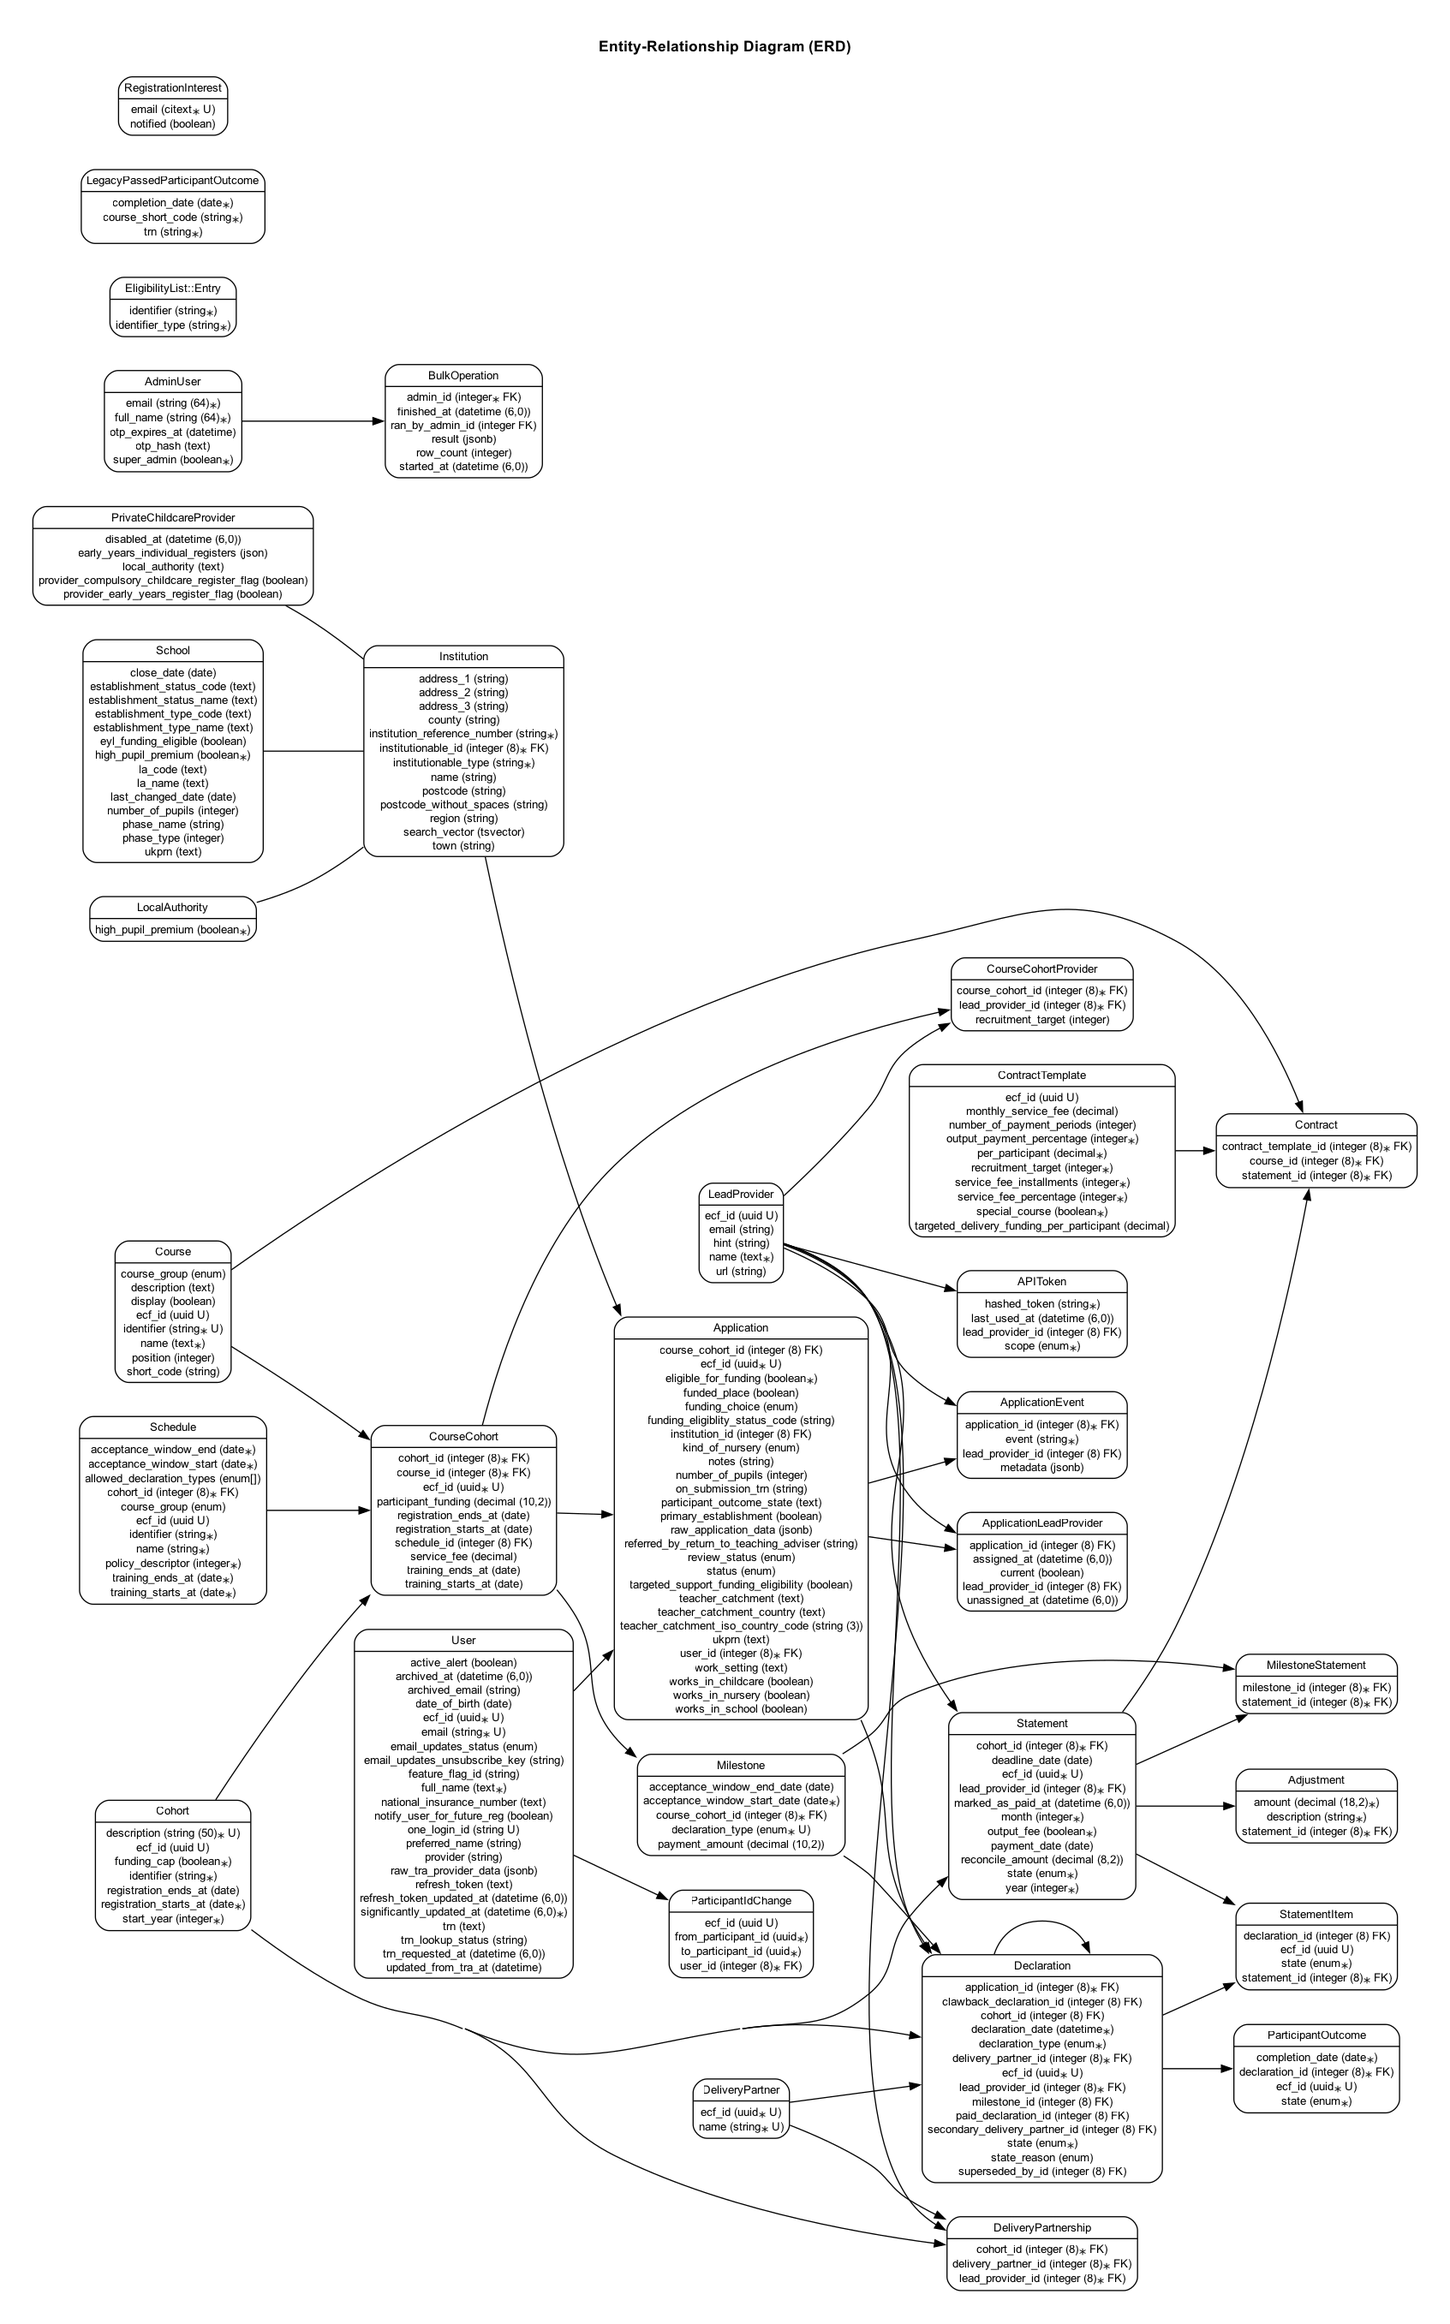
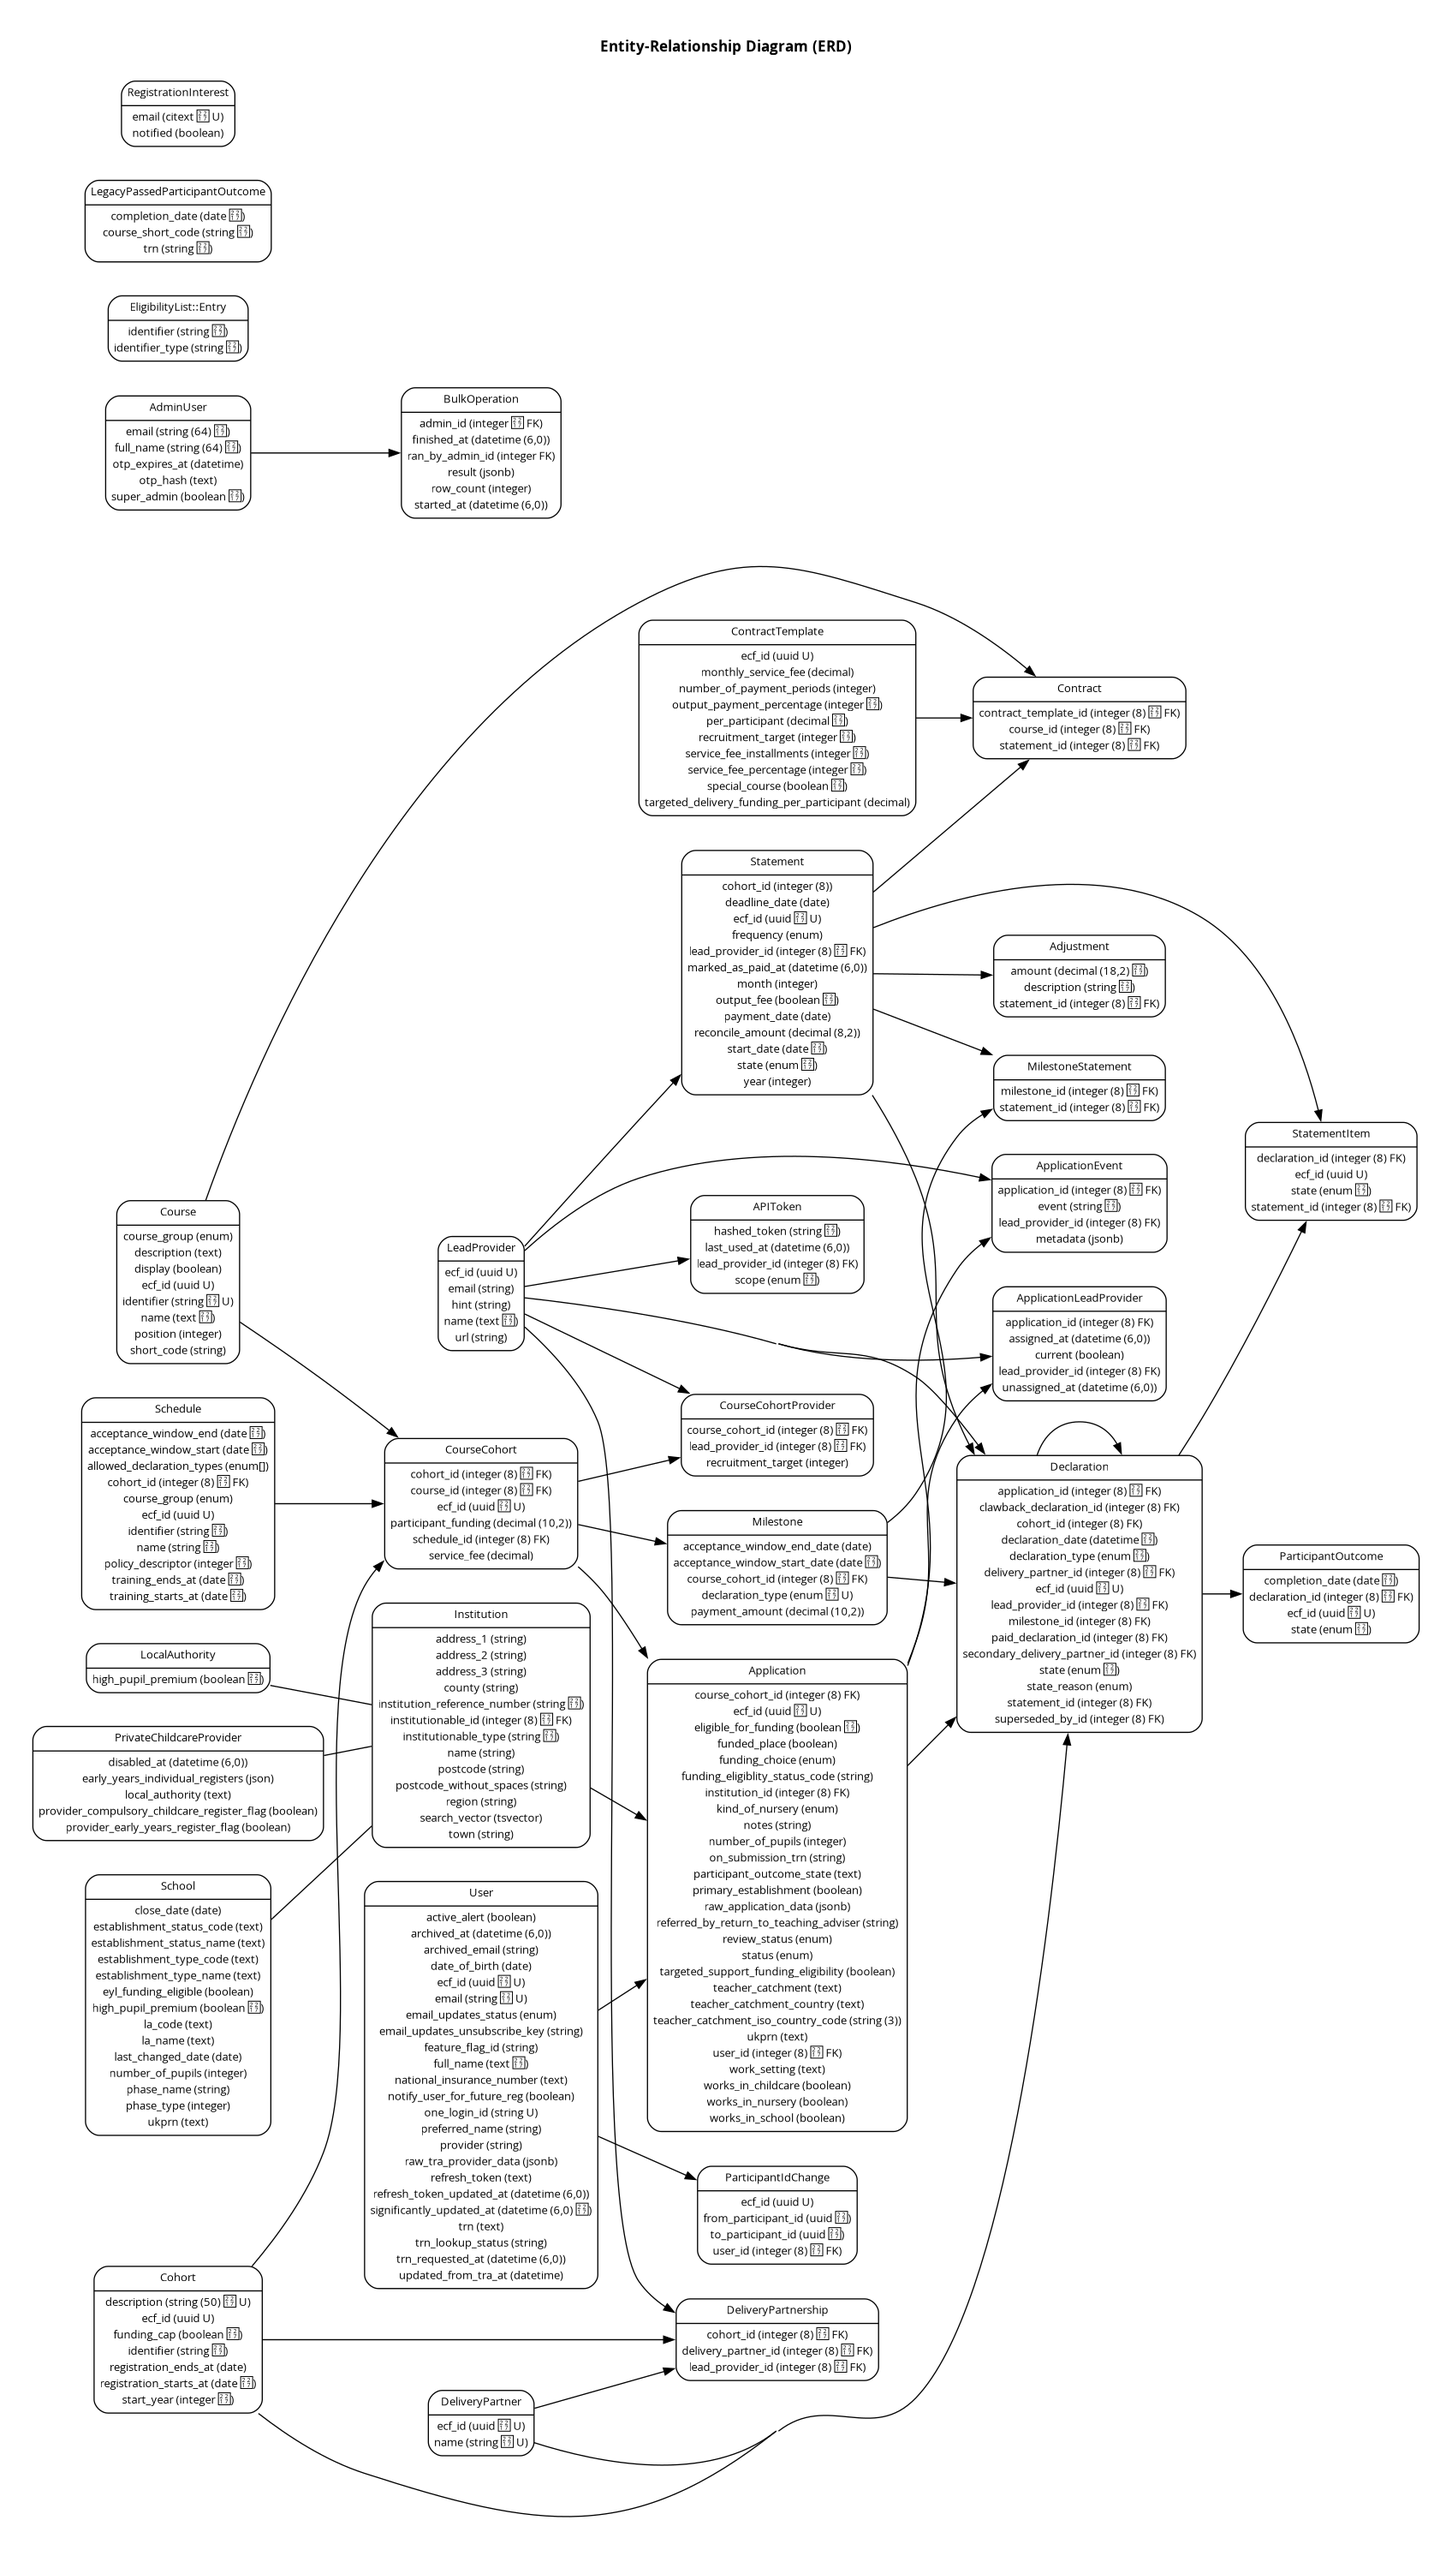
Split migration so we don't remove columns before backfilling data

diff --git a/db/schema.rb b/db/schema.rb
@@ -582,20 +582,24 @@ ActiveRecord::Schema[8.1].define(version: 2026_07_31_093900) do
   end
 
   create_table "statements", force: :cascade do |t|
+    t.bigint "cohort_id"
     t.datetime "created_at", null: false
     t.date "deadline_date"
     t.uuid "ecf_id", default: -> { "gen_random_uuid()" }, null: false
     t.enum "frequency", enum_type: "statements_frequency_types"
     t.bigint "lead_provider_id", null: false
     t.datetime "marked_as_paid_at"
+    t.integer "month"
     t.boolean "output_fee", default: true, null: false
     t.date "payment_date"
     t.decimal "reconcile_amount", precision: 8, scale: 2
     t.date "start_date"
     t.enum "state", default: "open", null: false, enum_type: "statement_states"
     t.datetime "updated_at", null: false
+    t.integer "year"
+    t.index ["cohort_id"], name: "index_statements_on_cohort_id"
     t.index ["ecf_id"], name: "index_statements_on_ecf_id", unique: true
-    t.index ["lead_provider_id", "start_date", "frequency"], name: "index_statements_on_lead_provider_id_start_date_frequency", unique: true
+    t.index ["lead_provider_id", "cohort_id", "year", "month"], name: "idx_on_lead_provider_id_cohort_id_year_month_2dece26c47", unique: true
     t.index ["lead_provider_id"], name: "index_statements_on_lead_provider_id"
   end
 
@@ -683,5 +687,6 @@ ActiveRecord::Schema[8.1].define(version: 2026_07_31_093900) do
   add_foreign_key "schedules", "cohorts"
   add_foreign_key "statement_items", "declarations"
   add_foreign_key "statement_items", "statements"
+  add_foreign_key "statements", "cohorts"
   add_foreign_key "statements", "lead_providers"
 end

diff --git a/db/migrate/20260723133441_update_statement.rb b/db/migrate/20260723133441_update_statement.rb
@@ -1,25 +1,12 @@
 class UpdateStatement < ActiveRecord::Migration[8.1]
-  disable_ddl_transaction!
-
   def change
-    safety_assured do
-      remove_index :statements, :cohort_id if index_exists?(:statements, :cohort_id)
-
-      remove_column :statements, :cohort_id, :bigint if column_exists?(:statements, :cohort_id)
-      remove_column :statements, :month, :integer if column_exists?(:statements, :month)
-      remove_column :statements, :year, :integer if column_exists?(:statements, :year)
-    end
-
     create_enum :statements_frequency_types, %w[monthly]
 
     add_column :statements, :start_date, :date unless column_exists?(:statements, :start_date)
     add_column :statements, :frequency, :enum, enum_type: :statements_frequency_types unless column_exists?(:statements, :frequency)
 
-    unless index_exists?(:statements, %i[lead_provider_id start_date frequency])
-      add_index :statements, %i[lead_provider_id start_date frequency],
-                UNIQUE: true,
-                name: "index_statements_on_lead_provider_id_start_date_frequency",
-                algorithm: :concurrently
-    end
+    change_column_null :statements, :cohort_id, true
+    change_column_null :statements, :month, true
+    change_column_null :statements, :year, true
   end
 end

diff --git a/app/models/statement.rb b/app/models/statement.rb
@@ -15,7 +15,9 @@ class Statement < ApplicationRecord
   has_many :adjustments
 
   validates :start_date, presence: true
+  # rubocop:disable Rails/UniqueValidationWithoutIndex -- index added in follow-up migration after data backfill
   validates :lead_provider_id, uniqueness: { scope: %i[start_date frequency], message: "Statement for this lead provider start_date frequency already exists" }
+  # rubocop:enable Rails/UniqueValidationWithoutIndex
   validates :ecf_id, uniqueness: { case_sensitive: false }
 
   validates :output_fee, inclusion: { in: [true, false] }

diff --git a/documentation/domain-model.md b/documentation/domain-model.md
@@ -94,10 +94,6 @@ erDiagram
     integer schedule_id
     decimal service_fee
     datetime updated_at
-    date registration_starts_at
-    date registration_ends_at
-    date training_starts_at
-    date training_ends_at
   }
   CourseCohort }o--|| Course : belongs_to
   CourseCohort }o--|| Cohort : belongs_to
@@ -146,6 +142,7 @@ erDiagram
     integer superseded_by_id
     string type
     datetime updated_at
+    integer statement_id
   }
   Declaration }o--|| Application : belongs_to
   Declaration }o--|| LeadProvider : belongs_to
